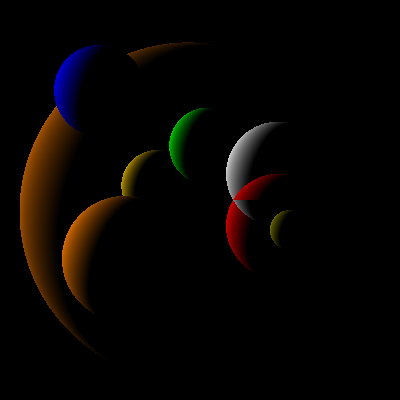
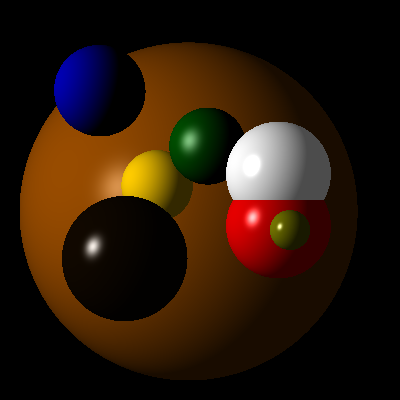
Lighting seems to work now

diff --git a/Code/scene.cpp b/Code/scene.cpp
@@ -52,21 +52,21 @@ Color Scene::trace(Ray const &ray)
     *        pow(a,b)           a to the power of b
     ****************************************************/
 
-    Vector i_D;
-    Vector i_S;
+    Color I_d;
+    Color I_s;
     for (int i = 0; i < lights.size(); i++) {
         Vector L = (lights[i]->position - hit).normalized();
         Vector R = 2*(N.dot(L))*N - L;
-        i_D += lights[i]->color * fmax(0, L.dot(N));
-        i_S += lights[i]->color * pow(fmax(0, R.dot(V)), material.n);
+        I_d += lights[i]->color * fmax(0, L.dot(N));
+        I_s += lights[i]->color * pow(fmax(0, R.dot(V)), material.n);
     }
-    i_D *= material.kd;
-    i_S *= material.ks;
+    I_d *= material.kd;
+    I_s *= material.ks;
 
-    Color lighting = 0.3+i_S+i_D;
-    lighting.clamp();
 
-    return lighting * material.color;
+    Color I = material.ka+I_d;
+
+    return I_s + (I * material.color);
 }
 
 void Scene::render(Image &img)

diff --git a/Code/shapes/sphere.cpp b/Code/shapes/sphere.cpp
@@ -26,22 +26,22 @@ Hit Sphere::intersect(Ray const &ray)
     // place holder for actual intersection calculation
 
     Vector distance = ray.O - position;
-    double b = ray.D.dot(distance);
-    double d = b*b - distance.dot(distance) + r*r;
+    double b = distance.dot(ray.D);
+    double d = b*b - distance.length_2() + r*r;
     if (d < 0) {
         return Hit::NO_HIT();
     }
-    double t = -b+sqrt(d);
+    double t = -b-sqrt(d);
     if (t < 0) {
         return Hit::NO_HIT();
     }
 
     /****************************************************
     * RT1.2: NORMAL CALCULATION
-    *
+    * 
     * Given: t, C, r
     * Sought: N
-    *
+    * 
     * Insert calculation of the sphere's normal at the intersection point.
     ****************************************************/
 
